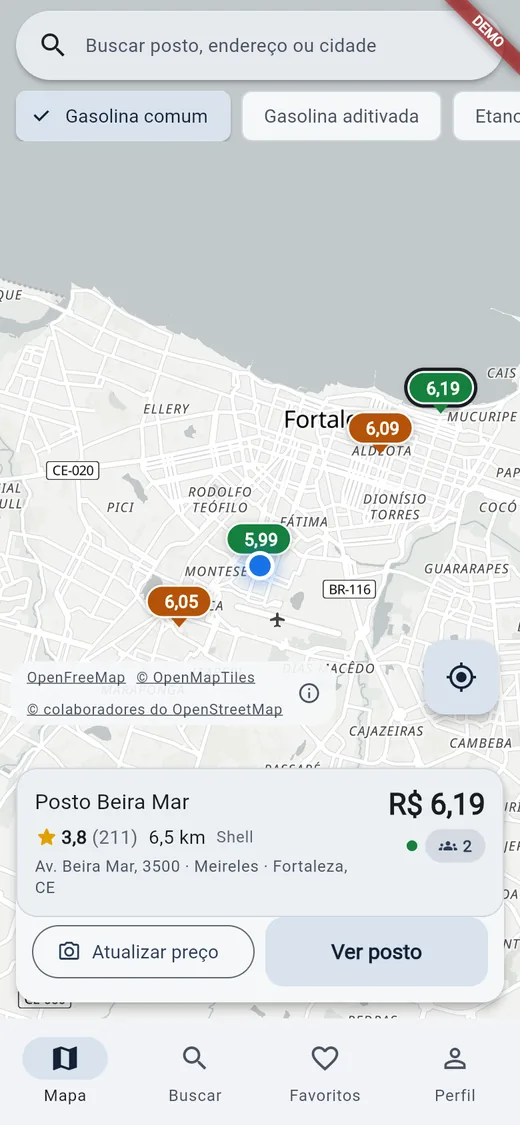
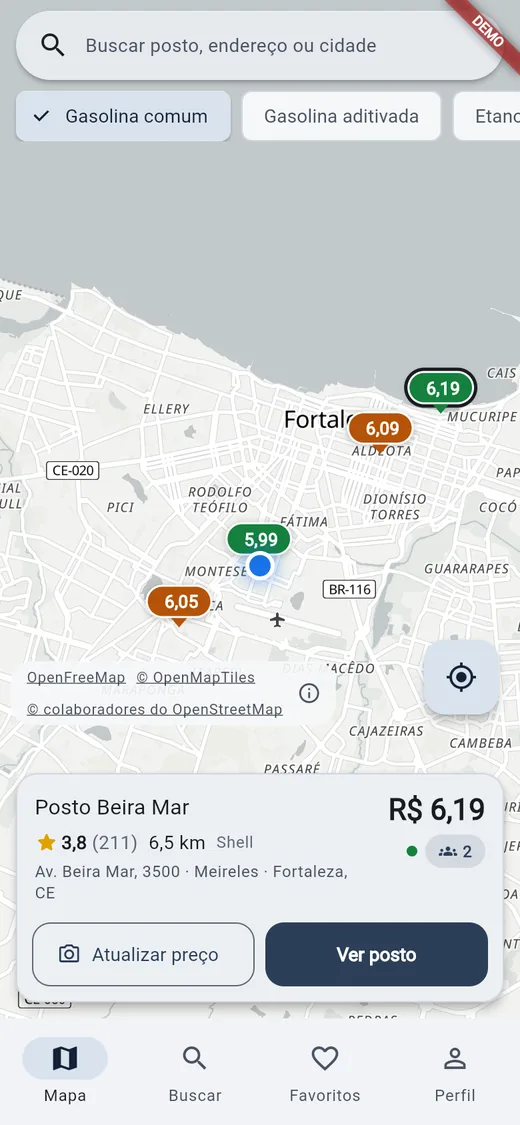
mapa: cartão do posto selecionado numa superfície só, com Ver posto no botão cheio da marca

Changed region(s): [[0.0615, 0.6844, 0.9538, 0.9022], [0.7385, 0.6844, 0.9231, 0.7778], [0.5231, 0.7467, 0.6769, 0.7778]]

diff --git a/app/lib/telas/mapa/tela_mapa.dart b/app/lib/telas/mapa/tela_mapa.dart
@@ -599,32 +599,57 @@ class _CartaoSelecionado extends StatelessWidget {
   const _CartaoSelecionado({required this.posto, required this.produtoId});
 
   @override
-  Widget build(BuildContext context) => Material(
-        elevation: 6,
-        borderRadius: BorderRadius.circular(16),
-        child: Column(mainAxisSize: MainAxisSize.min, crossAxisAlignment: CrossAxisAlignment.stretch, children: [
-          CartaoPosto(posto: posto, produtoId: produtoId, aoTocar: () => context.push('/posto/${posto.id}')),
-          Padding(
-            padding: const EdgeInsets.fromLTRB(12, 0, 12, 12),
-            child: Row(children: [
-              Expanded(
-                child: OutlinedButton.icon(
-                  onPressed: () => context.push('/posto/${posto.id}/enviar'),
-                  icon: const Icon(Icons.photo_camera_outlined),
-                  label: const Text('Atualizar preço'),
-                ),
-              ),
-              const SizedBox(width: 8),
-              Expanded(
-                child: FilledButton.tonal(
-                  onPressed: () => context.push('/posto/${posto.id}'),
-                  child: const Text('Ver posto'),
-                ),
-              ),
-            ]),
+  Widget build(BuildContext context) {
+    final tema = Theme.of(context);
+    final cs = tema.colorScheme;
+    const altura = Size(0, 48);
+    // Um só cartão: o resumo do posto perde a borda e o fundo próprios e divide a superfície com os botões
+    return Material(
+      elevation: 6,
+      color: cs.surfaceContainer,
+      shape: RoundedRectangleBorder(borderRadius: BorderRadius.circular(16), side: BorderSide(color: cs.outlineVariant)),
+      clipBehavior: Clip.antiAlias,
+      child: Column(mainAxisSize: MainAxisSize.min, crossAxisAlignment: CrossAxisAlignment.stretch, children: [
+        Theme(
+          data: tema.copyWith(
+            cardTheme: tema.cardTheme.copyWith(
+              color: Colors.transparent,
+              shape: RoundedRectangleBorder(borderRadius: BorderRadius.circular(16)),
+            ),
           ),
-        ]),
-      );
+          child: CartaoPosto(posto: posto, produtoId: produtoId, aoTocar: () => context.push('/posto/${posto.id}')),
+        ),
+        Padding(
+          padding: const EdgeInsets.fromLTRB(12, 0, 12, 12),
+          child: Row(children: [
+            Expanded(
+              child: OutlinedButton.icon(
+                style: OutlinedButton.styleFrom(
+                  minimumSize: altura,
+                  shape: RoundedRectangleBorder(borderRadius: BorderRadius.circular(14)),
+                ),
+                onPressed: () => context.push('/posto/${posto.id}/enviar'),
+                icon: const Icon(Icons.photo_camera_outlined),
+                label: const Text('Atualizar preço'),
+              ),
+            ),
+            const SizedBox(width: 8),
+            // Ação principal no botão cheio da marca, como nas outras telas
+            Expanded(
+              child: FilledButton(
+                style: FilledButton.styleFrom(
+                  minimumSize: altura,
+                  textStyle: const TextStyle(fontSize: 14, fontWeight: FontWeight.w600),
+                ),
+                onPressed: () => context.push('/posto/${posto.id}'),
+                child: const Text('Ver posto'),
+              ),
+            ),
+          ]),
+        ),
+      ]),
+    );
+  }
 }
 
 class _ListaLateral extends StatelessWidget {
